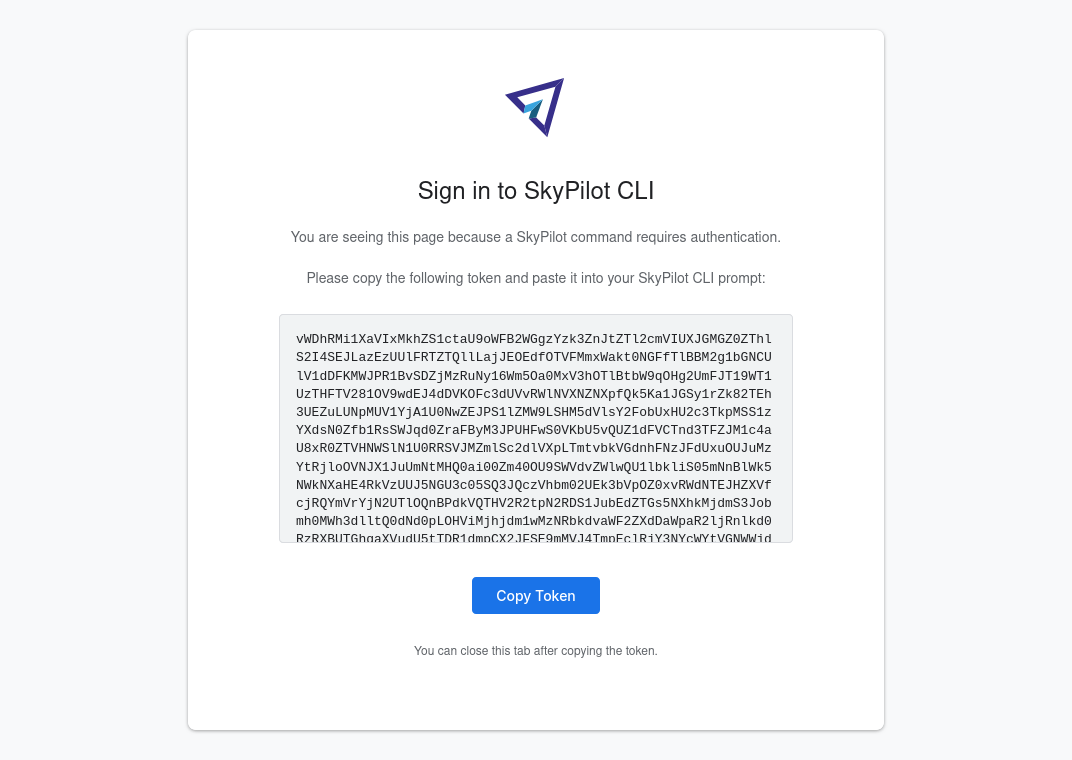
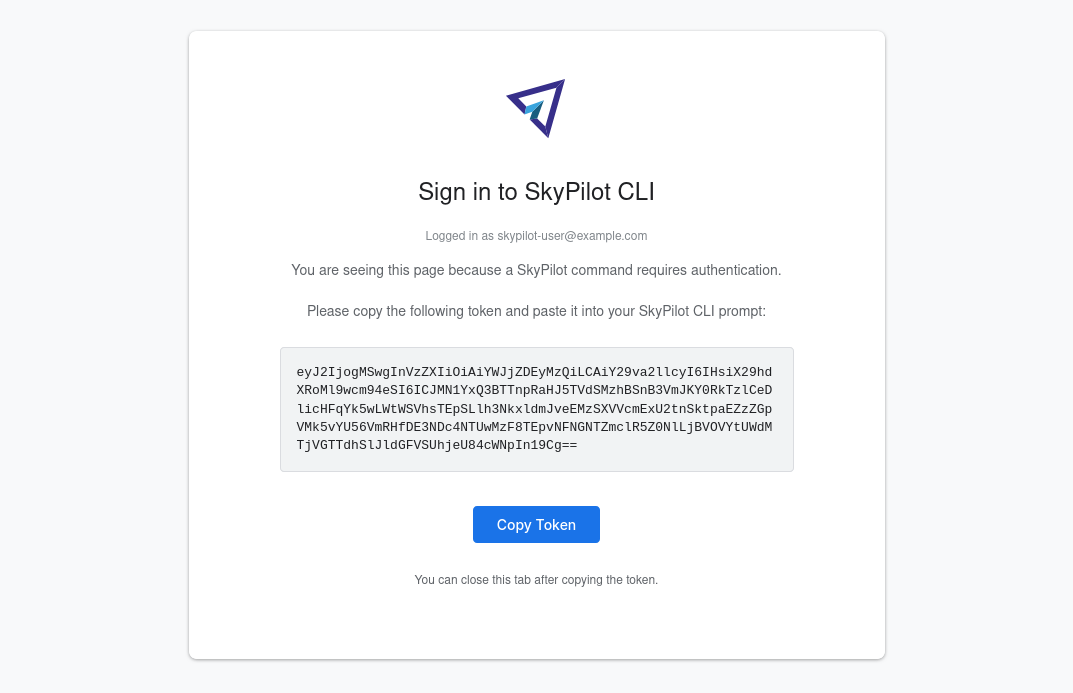
[auth] if auth header is present, force its use (#5684)
* [auth] if auth header is present, force its use

* update helm chart to support auth header

* only respect X-Auth-Request-Email

* update docs

* update token page

* update docs

* fix lint

Changed region(s): [[0.2771, 0.2424, 0.7388, 0.8788], [0.1847, 0.9394, 0.8312, 0.9697], [0.4618, 0.0909, 0.5233, 0.2121]]

diff --git a/sky/server/html/token_page.html b/sky/server/html/token_page.html
@@ -49,6 +49,11 @@
             margin-bottom: 20px;
             color: #5f6368;
         }
+        .user-identifier {
+            font-size: 12px; /* Smaller font size */
+            color: #80868b;  /* Lighter color */
+            margin-bottom: 8px; /* Adjusted margin */
+        }
         .code-block {
             background-color: #f1f3f4;
             border: 1px solid #dadce0;
@@ -110,8 +115,8 @@
             </svg>
         </div>
         <h1>Sign in to SkyPilot CLI</h1>
+        <p class="user-identifier">USER_PLACEHOLDER</p>
         <p>You are seeing this page because a SkyPilot command requires authentication.</p>
-
         <p>Please copy the following token and paste it into your SkyPilot CLI prompt:</p>
         <div id="token-box" class="code-block">SKYPILOT_API_SERVER_USER_TOKEN_PLACEHOLDER</div>
         <button id="copy-btn" class="copy-button">Copy Token</button>

diff --git a/sky/server/server.py b/sky/server/server.py
@@ -6,6 +6,7 @@ import base64
 import contextlib
 import dataclasses
 import datetime
+import hashlib
 import json
 import logging
 import multiprocessing
@@ -31,6 +32,7 @@ from sky import core
 from sky import exceptions
 from sky import execution
 from sky import global_user_state
+from sky import models
 from sky import sky_logging
 from sky.clouds import service_catalog
 from sky.data import storage_utils
@@ -108,6 +110,38 @@ class RequestIDMiddleware(starlette.middleware.base.BaseHTTPMiddleware):
         response.headers['X-Request-ID'] = request_id
         response.headers['X-Skypilot-Request-ID'] = request_id
         return response
+
+
+def _get_auth_user_header(request: fastapi.Request) -> Optional[models.User]:
+    if 'X-Auth-Request-Email' not in request.headers:
+        return None
+    user_name = request.headers['X-Auth-Request-Email']
+    user_hash = hashlib.md5(
+        user_name.encode()).hexdigest()[:common_utils.USER_HASH_LENGTH]
+    return models.User(id=user_hash, name=user_name)
+
+
+class AuthProxyMiddleware(starlette.middleware.base.BaseHTTPMiddleware):
+    """Middleware to handle auth proxy."""
+
+    async def dispatch(self, request: fastapi.Request, call_next):
+        auth_user = _get_auth_user_header(request)
+        body = await request.body()
+        if auth_user and body:
+            try:
+                original_json = await request.json()
+            except json.JSONDecodeError as e:
+                logger.error(f'Error parsing request JSON: {e}')
+            else:
+                logger.debug(f'Overriding user for {request.state.request_id}: '
+                             f'{auth_user.name}, {auth_user.id}')
+                if 'env_vars' in original_json:
+                    original_json['env_vars'][
+                        constants.USER_ID_ENV_VAR] = auth_user.id
+                    original_json['env_vars'][
+                        constants.USER_ENV_VAR] = auth_user.name
+                request._body = json.dumps(original_json).encode('utf-8')  # pylint: disable=protected-access
+        return await call_next(request)
 
 
 # Default expiration time for upload ids before cleanup.
@@ -217,14 +251,25 @@ app.add_middleware(
     # TODO(syang): remove X-Request-ID when v0.10.0 is released.
     expose_headers=['X-Request-ID', 'X-Skypilot-Request-ID'])
 app.add_middleware(RequestIDMiddleware)
+app.add_middleware(AuthProxyMiddleware)
 app.include_router(jobs_rest.router, prefix='/jobs', tags=['jobs'])
 app.include_router(serve_rest.router, prefix='/serve', tags=['serve'])
 
 
 @app.get('/token')
 async def token(request: fastapi.Request) -> fastapi.responses.HTMLResponse:
+    # If we have auth info, save this user to the database.
+    user = _get_auth_user_header(request)
+    if user is not None:
+        global_user_state.add_or_update_user(user)
+
+    token_data = {
+        'v': 1,  # Token version number, bump for backwards incompatible.
+        'user': user.id if user is not None else None,
+        'cookies': request.cookies,
+    }
     # Use base64 encoding to avoid having to escape anything in the HTML.
-    json_bytes = json.dumps(request.cookies).encode('utf-8')
+    json_bytes = json.dumps(token_data).encode('utf-8')
     base64_str = base64.b64encode(json_bytes).decode('utf-8')
 
     html_dir = pathlib.Path(__file__).parent / 'html'
@@ -236,8 +281,10 @@ async def token(request: fastapi.Request) -> fastapi.responses.HTMLResponse:
         raise fastapi.HTTPException(
             status_code=500, detail='Token page template not found.') from e
 
+    user_info_string = f'Logged in as {user.name}' if user is not None else ''
     html_content = html_content.replace(
-        'SKYPILOT_API_SERVER_USER_TOKEN_PLACEHOLDER', base64_str)
+        'SKYPILOT_API_SERVER_USER_TOKEN_PLACEHOLDER',
+        base64_str).replace('USER_PLACEHOLDER', user_info_string)
 
     return fastapi.responses.HTMLResponse(
         content=html_content,

diff --git a/sky/client/sdk.py b/sky/client/sdk.py
@@ -1868,7 +1868,7 @@ def api_server_logs(follow: bool = True, tail: Optional[int] = None) -> None:
 
 @usage_lib.entrypoint
 @annotations.client_api
-def api_login(endpoint: Optional[str] = None) -> None:
+def api_login(endpoint: Optional[str] = None, get_token: bool = False) -> None:
     """Logs into a SkyPilot API server.
 
     This sets the endpoint globally, i.e., all SkyPilot CLI and SDK calls will
@@ -1895,7 +1895,7 @@ def api_login(endpoint: Optional[str] = None) -> None:
         raise click.BadParameter('Endpoint must be a valid URL.')
 
     server_status = server_common.check_server_healthy(endpoint)
-    if server_status == server_common.ApiServerStatus.NEEDS_AUTH:
+    if server_status == server_common.ApiServerStatus.NEEDS_AUTH or get_token:
         # We detected an auth proxy, so go through the auth proxy cookie flow.
         parsed_url = urlparse.urlparse(endpoint)
         token_url = f'{endpoint}/token'
@@ -1915,11 +1915,20 @@ def api_login(endpoint: Optional[str] = None) -> None:
             raise ValueError(f'Malformed token: {token}') from e
         logger.debug(f'Token data: {data!r}')
         try:
-            cookie_dict = json.loads(data)
+            json_data = json.loads(data)
         except (json.JSONDecodeError, UnicodeDecodeError) as e:
             raise ValueError(f'Malformed token data: {data!r}') from e
-        if not isinstance(cookie_dict, dict):
-            raise ValueError(f'Malformed token JSON: {cookie_dict}')
+        if not isinstance(json_data, dict):
+            raise ValueError(f'Malformed token JSON: {json_data}')
+
+        if json_data.get('v') == 1:
+            user_hash = json_data.get('user')
+            cookie_dict = json_data['cookies']
+        elif 'v' not in json_data:
+            user_hash = None
+            cookie_dict = json_data
+        else:
+            raise ValueError(f'Unsupported token version: {json_data.get("v")}')
 
         cookie_jar = cookiejar.MozillaCookieJar()
         for (name, value) in cookie_dict.items():
@@ -1961,6 +1970,15 @@ def api_login(endpoint: Optional[str] = None) -> None:
         cookie_jar_path = os.path.expanduser(
             server_common.get_api_cookie_jar_path())
         cookie_jar.save(cookie_jar_path)
+
+        # If we have a user_hash, save it to the local file
+        if user_hash is not None:
+            if not common_utils.is_valid_user_hash(user_hash):
+                raise ValueError(f'Invalid user hash: {user_hash}')
+            with open(os.path.expanduser('~/.sky/user_hash'),
+                      'w',
+                      encoding='utf-8') as f:
+                f.write(user_hash)
 
     # Set the endpoint in the config file
     config_path = pathlib.Path(

diff --git a/sky/cli.py b/sky/cli.py
@@ -6169,10 +6169,14 @@ def api_status(request_ids: Optional[List[str]], all_status: bool,
               '-e',
               required=False,
               help='The SkyPilot API server endpoint.')
+@click.option('--get-token',
+              is_flag=True,
+              default=False,
+              help='Force token-based login.')
 @usage_lib.entrypoint
-def api_login(endpoint: Optional[str]):
+def api_login(endpoint: Optional[str], get_token: bool):
     """Logs into a SkyPilot API server."""
-    sdk.api_login(endpoint)
+    sdk.api_login(endpoint, get_token)
 
 
 @api.command('info', cls=_DocumentedCodeCommand)

diff --git a/sky/server/requests/executor.py b/sky/server/requests/executor.py
@@ -228,6 +228,7 @@ def override_request_env_and_config(
     """Override the environment and SkyPilot config for a request."""
     original_env = os.environ.copy()
     os.environ.update(request_body.env_vars)
+    # Note: may be overridden by AuthProxyMiddleware.
     user = models.User(id=request_body.env_vars[constants.USER_ID_ENV_VAR],
                        name=request_body.env_vars[constants.USER_ENV_VAR])
     global_user_state.add_or_update_user(user)

diff --git a/docs/source/reference/api-server/examples/api-server-auth-proxy.rst b/docs/source/reference/api-server/examples/api-server-auth-proxy.rst
@@ -58,6 +58,13 @@ Copy and paste the token into the terminal to save the auth for the SkyPilot CLI
 
 This will copy the relevant auth cookies from the browser into the CLI.
 
+SkyPilot will use the user info passed by the auth proxy in your SkyPilot API server.
+
+.. image:: ../../../images/client-server/cluster-users.png
+    :alt: User emails in the SkyPilot dashboard
+    :align: center
+    :width: 70%
+
 .. _oauth2-proxy-okta:
 
 Setting up OAuth2 Proxy with Okta
@@ -136,3 +143,5 @@ During the login flow, the token provided by the web login will encode the cooki
 .. note::
 
     If your auth proxy is not automatically detected, try using ``sky api login --cookies`` to force auth proxy mode.
+
+If the `X-Auth-Request-Email` header is set by your auth proxy, SkyPilot will use it as the user name all requests.
